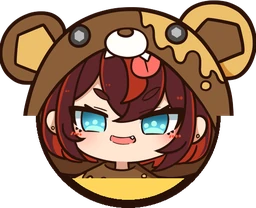
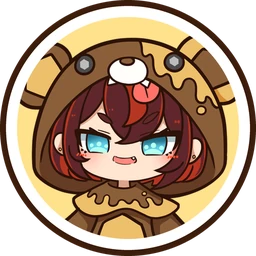
Round Kumachi token, mind-game callout, wording fixes
- Replace the Kumachi token with a face-centred round crop that keeps
  the whole hood and both ears inside the circle (the old one cut the
  hood with a straight edge)
- Remove the sound-effect labels from the trap cards
- Add a "ここが読み合い！" box under the trap cards: you want to draw
  bells, and you want your opponent to draw honey; uses the goods art
  of Kumachi hugging a honey pot
- Drop the "kigurumi" wording from the character text and alt texts
- Bump asset version to 20261108a

Claude-Session: https://claude.ai/code/session_01QkZW95TEhHKhzKgdUnGDCP

diff --git a/index.html b/index.html
@@ -23,8 +23,8 @@
   <link rel="preconnect" href="https://fonts.googleapis.com">
   <link rel="preconnect" href="https://fonts.gstatic.com" crossorigin>
   <link rel="stylesheet" href="https://fonts.googleapis.com/css2?family=Fredoka:wght@500;600;700&family=Mochiy+Pop+One&family=Zen+Maru+Gothic:wght@500;700;900&display=swap">
-  <link rel="stylesheet" href="assets/css/style.css?v=20261011f">
-  <script src="assets/js/main.js?v=20261011f" defer></script>
+  <link rel="stylesheet" href="assets/css/style.css?v=20261108a">
+  <script src="assets/js/main.js?v=20261108a" defer></script>
 </head>
 <body>
   <a class="skip-link" href="#main">本文へスキップ</a>
@@ -157,7 +157,7 @@
       <picture class="hero__kv">
         <source type="image/webp" srcset="assets/img/kv-1280.webp 1280w, assets/img/kv-1920.webp 1920w" sizes="100vw">
         <img src="assets/img/kv-1920.webp" width="1920" height="1080" fetchpriority="high"
-             alt="トラップスのキービジュアル。クマの着ぐるみを着たクマチが、ハチミツのツボとハチが飛ぶ森の道を駆けてくる">
+             alt="トラップスのキービジュアル。クマチが、ハチミツのツボとハチが飛ぶ森の道を駆けてくる">
       </picture>
 
       <div class="hedge" aria-hidden="true"></div>
@@ -203,7 +203,7 @@
       <div class="container character__grid">
         <div class="character__visual">
           <div class="character__halo" aria-hidden="true"></div>
-          <img class="character__img" src="assets/img/kumachi-stand.webp" width="760" height="1004" alt="クマの着ぐるみを着て、にやりと笑うクマチ" loading="lazy">
+          <img class="character__img" src="assets/img/kumachi-stand.webp" width="760" height="1004" alt="にやりと笑うクマチ" loading="lazy">
           <p class="character__bubble">いたずら<br>しちゃうぞ〜♪</p>
           <svg class="bee character__bee character__bee--1" aria-hidden="true"><use href="#i-bee"></use></svg>
           <svg class="bee bee--flip character__bee character__bee--2" aria-hidden="true"><use href="#i-bee"></use></svg>
@@ -219,7 +219,7 @@
             <p class="nameplate__en">KUMACHI</p>
           </div>
           <p class="character__catch"><span class="nw">森からやってきた、</span><span class="nw">いたずら好きの女の子。</span></p>
-          <p><span class="nw">お気に入りのクマの着ぐるみを着て、</span><span class="nw">今日も村へいたずらをしにやってくる！</span><br><span class="nw">村にたどり着かれたら最後、</span><span class="nw">いたずらされ放題…!?</span><br><span class="nw">トラップを仕掛けて、</span><span class="nw">クマチを相手の村へ押し込もう！</span></p>
+          <p><span class="nw">今日もどこかの村へ、</span><span class="nw">いたずらをしにやってくる！</span><br><span class="nw">村にたどり着かれたら最後、</span><span class="nw">いたずらされ放題…!?</span><br><span class="nw">トラップを仕掛けて、</span><span class="nw">クマチを相手の村へ押し込もう！</span></p>
           <dl class="profile">
             <div class="profile__row">
               <dt>すきなもの</dt>
@@ -258,7 +258,7 @@
               </div>
               <div class="board" data-board>
                 <div class="board__token" data-token>
-                  <img src="assets/img/kumachi-token.webp" width="256" height="208" alt="">
+                  <img src="assets/img/kumachi-token.webp" width="256" height="256" alt="">
                 </div>
                 <div class="board__pop" data-pop></div>
               </div>
@@ -306,7 +306,7 @@
         </div>
 
         <div class="win">
-          <img class="win__token" src="assets/img/kumachi-token.webp" width="256" height="208" alt="" loading="lazy">
+          <img class="win__token" src="assets/img/kumachi-token.webp" width="256" height="256" alt="" loading="lazy">
           <div class="win__body">
             <p class="win__label">勝利条件</p>
             <p class="win__text"><span class="nw">クマチを<em>相手の村</em>に</span><span class="nw">押し込んだら勝ち！</span></p>
@@ -342,7 +342,6 @@
               <li class="trap" style="--tilt:-3deg">
                 <div class="trap__visual">
                   <img class="trap__img" src="assets/img/card-plus1.webp" width="397" height="397" alt="スズのカード" loading="lazy">
-                  <span class="trap__sfx" aria-hidden="true">チリン♪</span>
                 </div>
                 <div class="trap__body">
                   <p class="trap__value">+1</p>
@@ -353,7 +352,6 @@
               <li class="trap" style="--tilt:2deg">
                 <div class="trap__visual">
                   <img class="trap__img" src="assets/img/card-plus2.webp" width="397" height="397" alt="天使のスズのカード" loading="lazy">
-                  <span class="trap__sfx" aria-hidden="true">リンリン♪</span>
                 </div>
                 <div class="trap__body">
                   <p class="trap__value">+2</p>
@@ -364,7 +362,6 @@
               <li class="trap" style="--tilt:-2deg">
                 <div class="trap__visual">
                   <img class="trap__img" src="assets/img/card-plus4.webp" width="397" height="397" alt="大ドラのカード" loading="lazy">
-                  <span class="trap__sfx trap__sfx--big" aria-hidden="true">ジャーン！</span>
                 </div>
                 <div class="trap__body">
                   <p class="trap__value">+4</p>
@@ -390,7 +387,6 @@
               <li class="trap" style="--tilt:2deg">
                 <div class="trap__visual">
                   <img class="trap__img" src="assets/img/card-minus1.webp" width="397" height="397" alt="ハチミツのカード" loading="lazy">
-                  <span class="trap__sfx" aria-hidden="true">ぺろっ</span>
                 </div>
                 <div class="trap__body">
                   <p class="trap__value">−1</p>
@@ -401,7 +397,6 @@
               <li class="trap" style="--tilt:-3deg">
                 <div class="trap__visual">
                   <img class="trap__img" src="assets/img/card-minus2.webp" width="397" height="397" alt="濃厚なハチミツのカード" loading="lazy">
-                  <span class="trap__sfx" aria-hidden="true">とろ〜り</span>
                 </div>
                 <div class="trap__body">
                   <p class="trap__value">−2</p>
@@ -411,6 +406,15 @@
               </li>
             </ul>
           </section>
+        </div>
+
+        <div class="trap-tip">
+          <img class="trap-tip__img" src="assets/img/kumachi-honey.webp" width="560" height="510" alt="ハチミツのツボをかかえて、うれしそうなクマチ" loading="lazy">
+          <div class="trap-tip__body">
+            <p class="trap-tip__label">ここが読み合い！</p>
+            <p class="trap-tip__lead"><span class="nw">自分は<b class="is-plus">スズ</b>を引きたい！</span><span class="nw">相手には<b class="is-minus">ハチミツ</b>を引かせたい！</span></p>
+            <p class="trap-tip__text"><span class="nw">相手はスズをどこに置いた？</span><span class="nw">自分はハチミツをどこに仕掛ける？</span><span class="nw">おたがいの裏を読み合う心理戦です。</span></p>
+          </div>
         </div>
 
         <ul class="notes notes--on-dark">
@@ -476,7 +480,7 @@
                   <span class="mind__cell is-card"></span>
                   <span class="mind__cell"></span>
                   <span class="mind__cell is-card is-one">①</span>
-                  <span class="mind__cell is-kumachi"><img src="assets/img/kumachi-token.webp" width="256" height="208" alt="" loading="lazy"></span>
+                  <span class="mind__cell is-kumachi"><img src="assets/img/kumachi-token.webp" width="256" height="256" alt="" loading="lazy"></span>
                   <span class="mind__cell is-card is-two">②</span>
                   <span class="mind__cell"></span>
                   <span class="mind__cell is-card"></span>

diff --git a/assets/css/style.css b/assets/css/style.css
@@ -884,9 +884,9 @@ h1, h2, h3, h4, .sec-lead, .demo__text, .mind__bubble, .character__catch, .trap_
 }
 .board__token img {
   position: absolute;
-  left: -18%;
-  bottom: -4%;
-  width: 136%;
+  left: -8%;
+  top: -8%;
+  width: 116%;
   max-width: none;
   filter: drop-shadow(0 3px 0 rgba(59, 29, 12, .35));
 }
@@ -1046,7 +1046,7 @@ h1, h2, h3, h4, .sec-lead, .demo__text, .mind__bubble, .character__catch, .trap_
   color: var(--white);
   box-shadow: var(--pop);
 }
-.win__token { flex: none; width: clamp(64px, 12vw, 104px); margin-top: -26px; }
+.win__token { flex: none; width: clamp(60px, 11vw, 92px); }
 .win__body { min-width: 0; }
 .win__label {
   display: inline-block;
@@ -1151,25 +1151,6 @@ h1, h2, h3, h4, .sec-lead, .demo__text, .mind__bubble, .character__catch, .trap_
   transition: rotate .25s, scale .25s, translate .25s;
 }
 .trap:hover .trap__img { rotate: 0deg; scale: 1.04; translate: 0 -6px; }
-.trap__sfx {
-  position: absolute;
-  right: -10px;
-  top: -12px;
-  padding: 1px 9px 2px;
-  border: 2.5px solid var(--ink);
-  border-radius: 999px;
-  background: var(--white);
-  color: var(--ink);
-  font-family: var(--font-pop);
-  font-size: 12px;
-  line-height: 1.6;
-  white-space: nowrap;
-  rotate: 8deg;
-}
-.trap__sfx--big {
-  background: var(--lemon);
-  font-size: 14px;
-}
 .trap__value {
   color: var(--white);
   font-family: var(--font-en);
@@ -1188,6 +1169,50 @@ h1, h2, h3, h4, .sec-lead, .demo__text, .mind__bubble, .character__catch, .trap_
   line-height: 1.4;
 }
 .trap__desc { font-size: 14px; font-weight: 700; line-height: 1.6; }
+
+/* 読み合いのポイント */
+.trap-tip {
+  display: grid;
+  grid-template-columns: clamp(110px, 22vw, 190px) minmax(0, 1fr);
+  align-items: center;
+  gap: clamp(14px, 3vw, 32px);
+  max-width: 880px;
+  margin: clamp(32px, 5vw, 48px) auto 0;
+  padding: clamp(16px, 3vw, 24px) clamp(18px, 4vw, 40px);
+  border: 3px solid var(--ink);
+  border-radius: var(--radius-l);
+  background: var(--paper);
+  color: var(--text);
+  box-shadow: 0 6px 0 var(--ink);
+}
+.trap-tip__img { width: 100%; margin-block: -8%; }
+.trap-tip__body { min-width: 0; }
+.trap-tip__label {
+  display: inline-block;
+  margin-bottom: 6px;
+  padding: 1px 14px 2px;
+  border-radius: 999px;
+  background: var(--orange);
+  color: var(--white);
+  font-family: var(--font-pop);
+  font-size: 13px;
+}
+.trap-tip__lead {
+  margin-bottom: 6px;
+  color: var(--ink);
+  font-family: var(--font-pop);
+  font-size: clamp(17px, 2.6vw, 23px);
+  line-height: 1.6;
+}
+.trap-tip__lead b { font-weight: 400; padding-inline: 2px; }
+.trap-tip__lead .is-plus { color: #0b7fb3; }
+.trap-tip__lead .is-minus { color: #c2480a; }
+.trap-tip__lead .nw { margin-right: .5em; }
+.trap-tip__text { font-size: 14px; font-weight: 700; line-height: 1.8; }
+@media (max-width: 599.98px) {
+  .trap-tip { grid-template-columns: 1fr; justify-items: center; text-align: center; }
+  .trap-tip__img { width: 150px; margin-block: -12px 0; }
+}
 
 .notes {
   display: grid;
@@ -1410,7 +1435,7 @@ h1, h2, h3, h4, .sec-lead, .demo__text, .mind__bubble, .character__catch, .trap_
 }
 .mind__cell.is-one { background: var(--orange-soft); }
 .mind__cell.is-two { background: var(--sky-deep); }
-.mind__cell.is-kumachi img { width: 138%; max-width: none; translate: 0 -8%; }
+.mind__cell.is-kumachi img { width: 112%; max-width: none; }
 
 .mind__candidates {
   display: flex;

diff --git a/README.md b/README.md
@@ -22,7 +22,8 @@ apple-touch-icon.png    スマホのホーム画面アイコン
 | `kv-1920.webp` / `kv-1280.webp` | キービジュアル（PC・タブレットのトップ） |
 | `logo.webp` | ロゴ（背景透過） |
 | `kumachi-stand.webp` / `kumachi-jump.webp` | クマチ（背景透過） |
-| `kumachi-token.webp` | クマチのコマ（遊び方デモ・勝利条件で使用） |
+| `kumachi-token.webp` | クマチのまるいコマ（遊び方デモ・勝利条件・心理戦の図で使用） |
+| `kumachi-honey.webp` | ハチミツをかかえたクマチ（トラップカードの「ここが読み合い！」で使用） |
 | `card-plus1.webp` 〜 `card-minus2.webp` | トラップカード5種（+1 / +2 / +4 / −1 / −2） |
 | `ogp.jpg` | SNSでシェアされたときの画像（1200×630） |
 | `card-back.webp` / `card-back-soft.webp` | カード裏面（通常／遊び方デモ用に色を薄くしたもの） |
